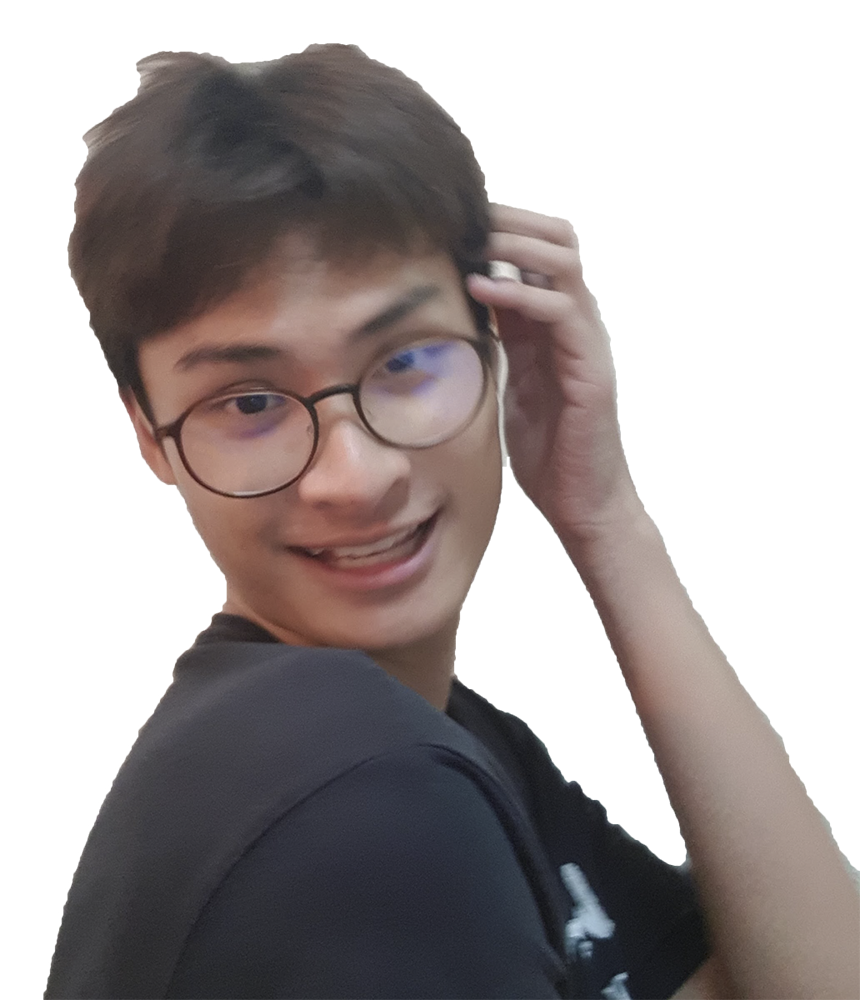
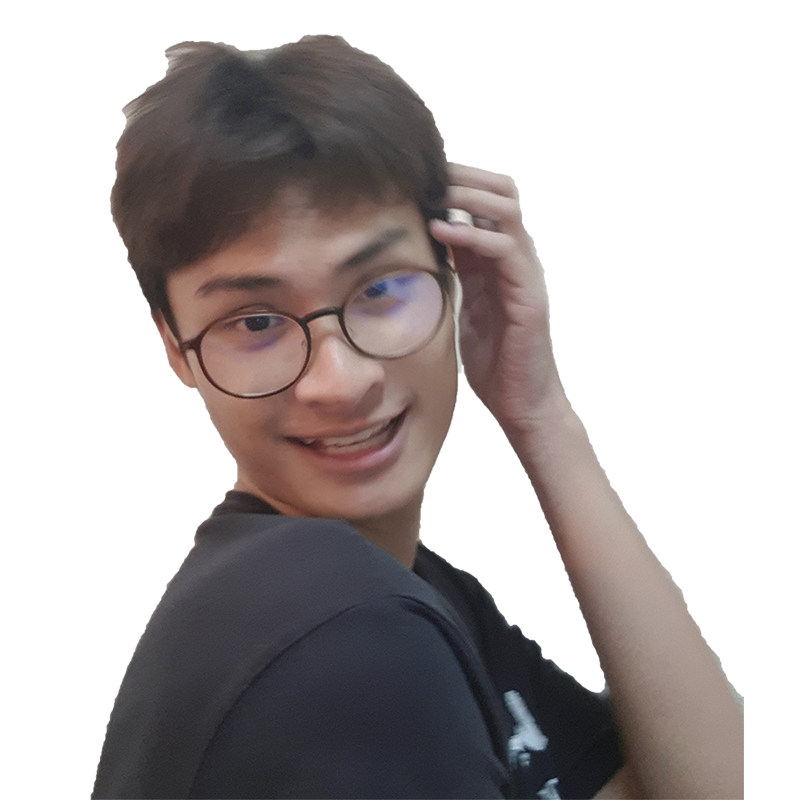
Change player pictures

diff --git a/display/src/Components/Player.js b/display/src/Components/Player.js
@@ -57,12 +57,15 @@ class PlayerTurn extends Component {
 
 
 class PlayerPlaceholder extends Component {
+  
   render() {   
+    const picName = ['kita','field','fluk','aj']
+
     if(this.props.id==this.props.current-1) {
-      return (<PlayerPic src="assets/player_kita.png"/>)
+      return (<PlayerPic src={`assets/player_${picName[this.props.id]}.png`}/>)
     }
     else{
-      return (<InactivePlayerPic src="assets/player_kita.png"/>)
+      return (<InactivePlayerPic src={`assets/player_${picName[this.props.id]}.png`}/>)
     }  
     
   }
